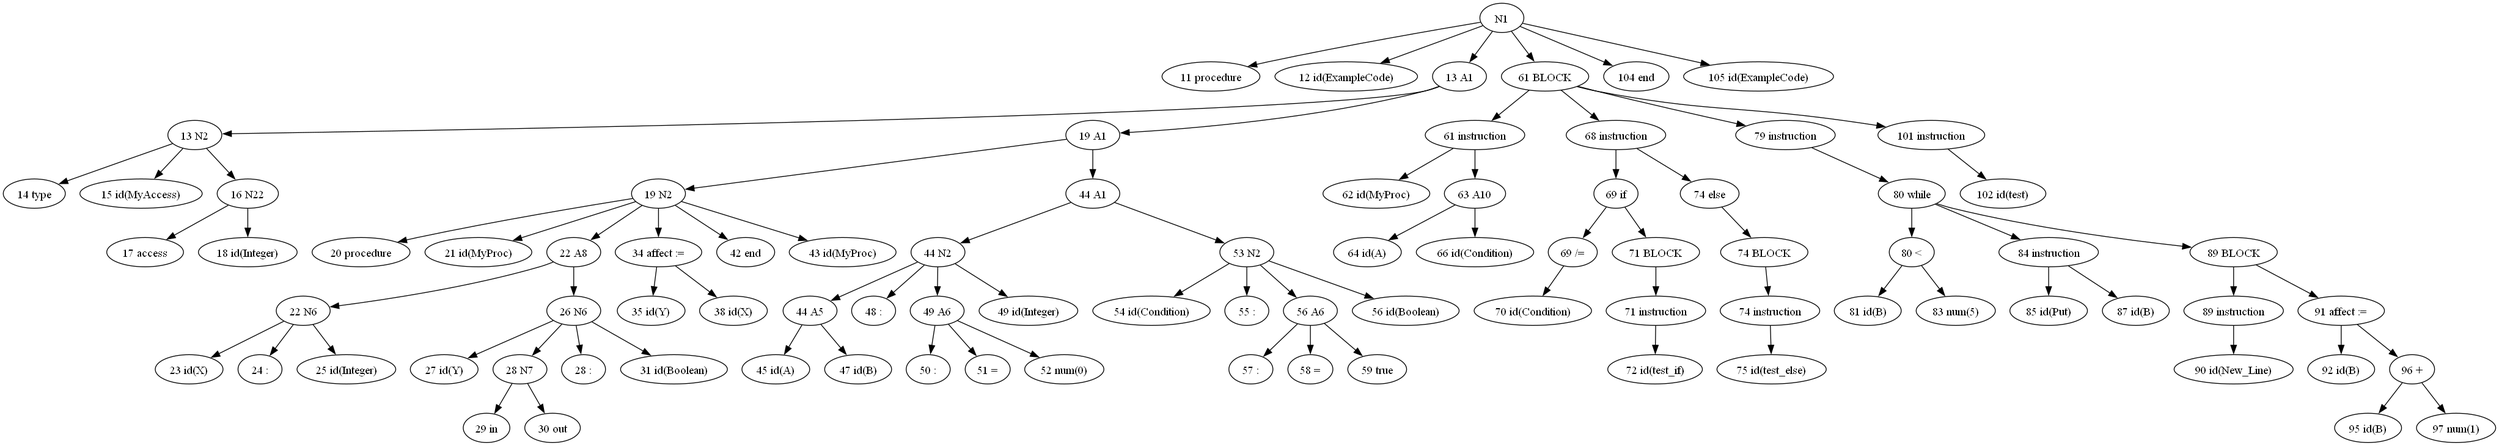
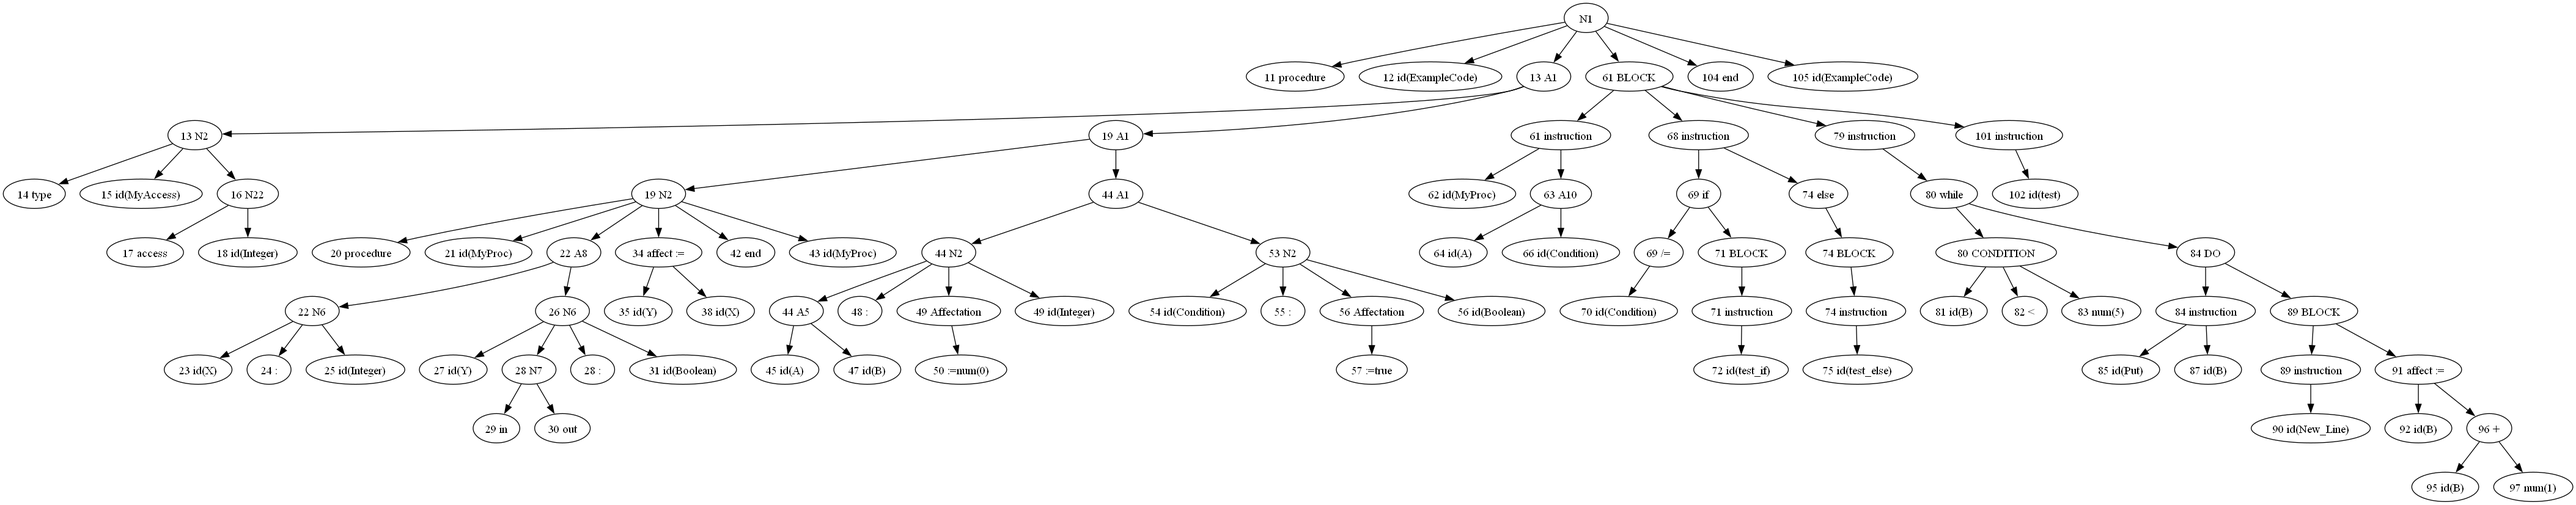
ajout a6

diff --git a/parseur/main_parseur.py b/parseur/main_parseur.py
@@ -345,6 +345,7 @@ def boucle_node(root):
         if node.name != "N1":
             rename(node)
             blocWhile(node)
+            gestionA6(node)
 
 
 def A2_destroyer(root):
@@ -468,23 +469,26 @@ def blocWhile(node):
             node.children[2].parent = None
             node.children[3].parent = None
             node.children[3].parent = None
-            node.children[1].name = node.children[1].name.split(" ")[0] + " condExpr"
-            node.children[2].name = node.children[2].name.split(" ")[0] + " Expr"
+            node.children[1].name = node.children[1].name.split(" ")[0] + " CONDITION"
+            node.children[2].name = node.children[2].name.split(" ")[0] + " DO"
             node.children[1].parent = node.children[0]
             node.children[1].parent = node.children[0]
 
-def blocWhile(node):
+def gestionA6(node):
     nom = node.name.split(" ")
-    if nom[1] == "instruction":
-        nom2 = node.children[0].name.split(" ")
-        if nom2[1] == "while":
-            node.children[2].parent = None
-            node.children[3].parent = None
-            node.children[3].parent = None
+    if nom[1] == "A6":
+        node.name = nom[0] + " Affectation"
+        x = Node(node.children[0].name.split(" ")[0] + " " + node.children[0].name.split(" ")[1] + node.children[1].name.split(" ")[1] + node.children[2].name.split(" ")[1], None)
+        print(x.name)
+        for i in range(3):
+            node.children[0].parent = None
+        x.parent = node
+        print(node.children[0].name)
+
 
 
 if __name__ == '__main__':
-
+    """
     print("On va maintenant tester notre parseur")
     print("Pour chaque test, on va afficher la liste de token renvoyé par le lexeur, puis générer l'arbre syntaxique "
           "associé")
@@ -512,7 +516,7 @@ if __name__ == '__main__':
     print(parseur.functions.fonction_N1(token_list, root))
     generate_final_AST(root)
     generate_tree("tree_if_elif.png")
-
+"""
     print("On va maintenant tester si notre parseur fonctionne avec un programme qui contient des if et des while :")
     token_list = file.get_token("exemples/exemple_if_while.ada")
     print(token_list)
@@ -520,7 +524,7 @@ if __name__ == '__main__':
     print(parseur.functions.fonction_N1(token_list, root))
     generate_final_AST(root)
     generate_tree("tree_if_while.png")
-
+    """
     print("Le test qui suit vise à montrer que l'on traite bien le cas où notre grammaire n'est pas LL1 (/=, /) :")
     token_list = file.get_token("exemples/exemple_division_difference.ada")
     print(token_list)
@@ -571,3 +575,4 @@ if __name__ == '__main__':
     # Display the tree structure
     # for pre, _, node in RenderTree(root):
     #     print(f"{pre}{node.name}")
+"""
